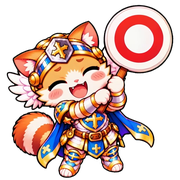
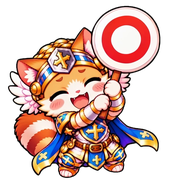
OK: smooth consecutive bounce loop; Tired: two alternate versions with code breathing
Claude-Session: https://claude.ai/code/session_01CqN5TM8CtnKZx6KMXb1z93

diff --git a/line-stickers/animated-emoji/22-tired/make_tired_alt.py b/line-stickers/animated-emoji/22-tired/make_tired_alt.py
@@ -1,0 +1,45 @@
+"""Tired alternates: Kling barely moved him, so the motion is added in code as a squash anchored at the floor.
+  A "breathe": slow even breathing, 3% flatter and 2% wider and back.
+  B "sigh":    a short inhale (4% taller), then a long heavy sigh that deflates him 7% flatter and 3% wider.
+usage: make_tired_alt.py SRC OUT A|B"""
+import sys, os, math
+from PIL import Image
+SRC, OUT, MODE = sys.argv[1], sys.argv[2], sys.argv[3]
+W, N, LOOP_MS = 540, 20, 2000
+src = [Image.open(f"{SRC}/{round(1 + 72 * k / N):03d}.png") for k in range(N)]
+bbs = [s.getbbox() for s in src]
+box = (min(b[0] for b in bbs), min(b[1] for b in bbs), max(b[2] for b in bbs), max(b[3] for b in bbs))
+s = (W - 40) / max(box[2] - box[0], box[3] - box[1])
+cw, ch = round((box[2]-box[0])*s), round((box[3]-box[1])*s)
+
+def shape(t):                                   # t in [0, 1) -> (width scale, height scale)
+    if MODE == 'A':
+        p = (1 - math.cos(2 * math.pi * t)) / 2
+        return 1 + 0.02 * p, 1 - 0.03 * p
+    if t < 0.2:                                  # quick inhale
+        p = math.sin(math.pi / 2 * t / 0.2)
+        return 1 - 0.01 * p, 1 + 0.04 * p
+    p = (t - 0.2) / 0.8                          # long heavy sigh, then settle back to rest
+    d = math.sin(math.pi * p) ** 0.6
+    return 1 + 0.03 * d - 0.01 * (1 - p) * (p < 0.15), 1 + 0.04 * max(0, 1 - p / 0.15) - 0.07 * d
+
+out = []
+for k, im in enumerate(src):
+    sx, sy = shape(k / N)
+    w, h = round(cw * sx), round(ch * sy)
+    m = im.crop(box).convert('RGBa').resize((w, h), Image.LANCZOS).convert('RGBA')
+    c = Image.new('RGBA', (W, W), (0, 0, 0, 0))
+    c.alpha_composite(m, ((W - w) // 2, (W + ch) // 2 - h))   # bottom stays on the same line
+    out.append(c)
+
+def save(frs, path, durs, loop):
+    sz = frs[0].width
+    tall = Image.new('RGBA', (sz, sz*len(frs))); [tall.paste(f, (0, sz*i)) for i, f in enumerate(frs)]
+    P = tall.quantize(colors=256, method=Image.Quantize.FASTOCTREE, dither=Image.Dither.NONE)
+    q = [P.crop((0, sz*i, sz, sz*i+sz)) for i in range(len(frs))]
+    for x in q: x.info = dict(P.info)
+    q[0].save(path, save_all=True, append_images=q[1:], duration=durs, loop=loop, disposal=0, blend=0, optimize=True)
+    print(os.path.basename(path), len(frs), 'frames', sum(durs), 'ms x', loop, os.path.getsize(path)//1024, 'KB')
+
+f180 = [o.convert('RGBa').resize((180, 180), Image.LANCZOS).convert('RGBA') for o in out]
+save(f180, f"{OUT}/tired-alt-{MODE}.png", [LOOP_MS // N] * N, 2)
